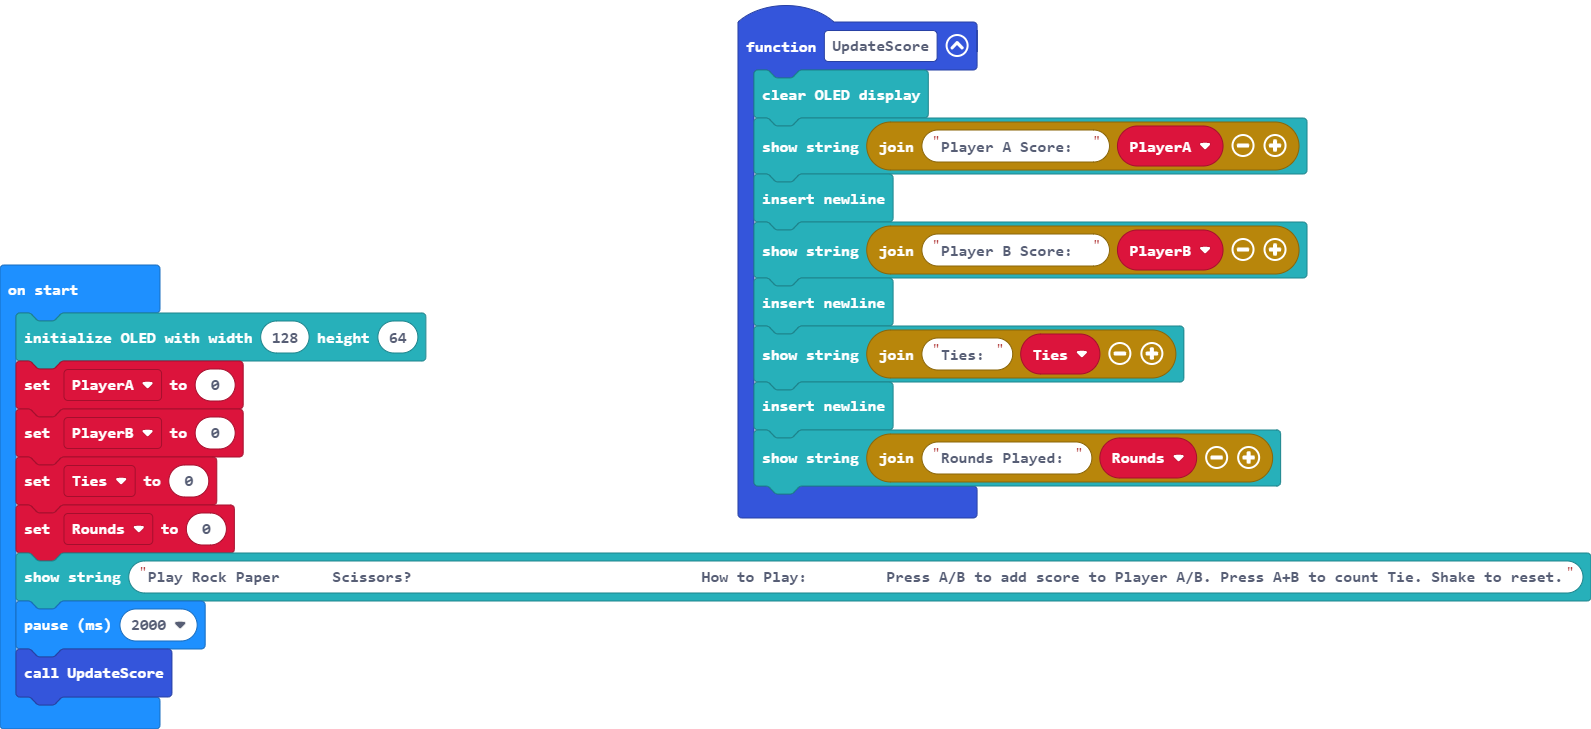
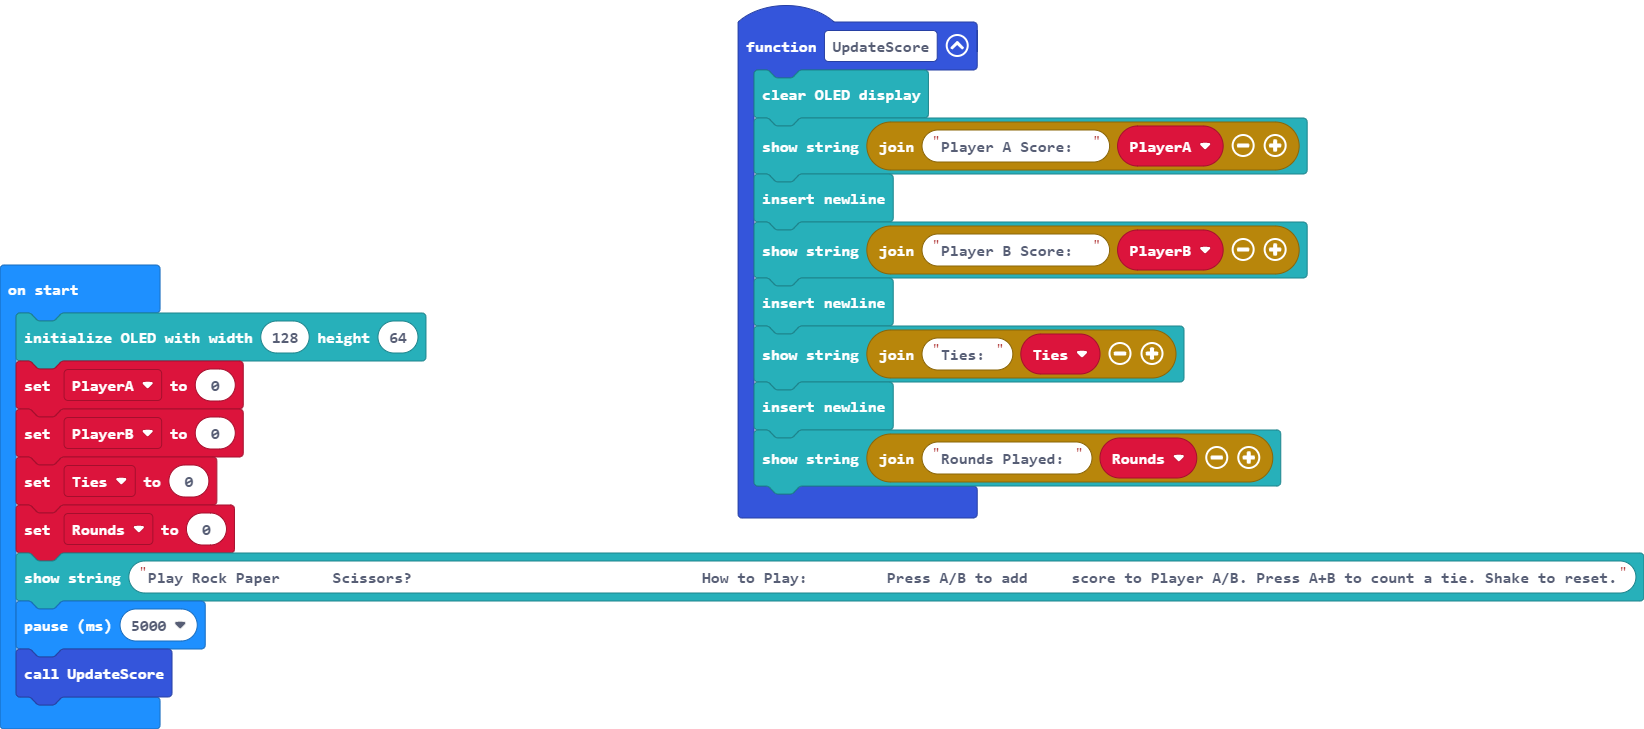
Update main.blocks, main.ts

diff --git a/main.ts b/main.ts
@@ -17,6 +17,6 @@ PlayerA = 0
 PlayerB = 0
 Ties = 0
 Rounds = 0
-OLED.writeStringNewLine("Play Rock Paper      Scissors?                                 How to Play:         Press A/B to add score to Player A/B. Press A+B to count Tie. Shake to reset.")
-basic.pause(2000)
+OLED.writeStringNewLine("Play Rock Paper      Scissors?                                 How to Play:         Press A/B to add     score to Player A/B. Press A+B to count a tie. Shake to reset.")
+basic.pause(5000)
 UpdateScore()
